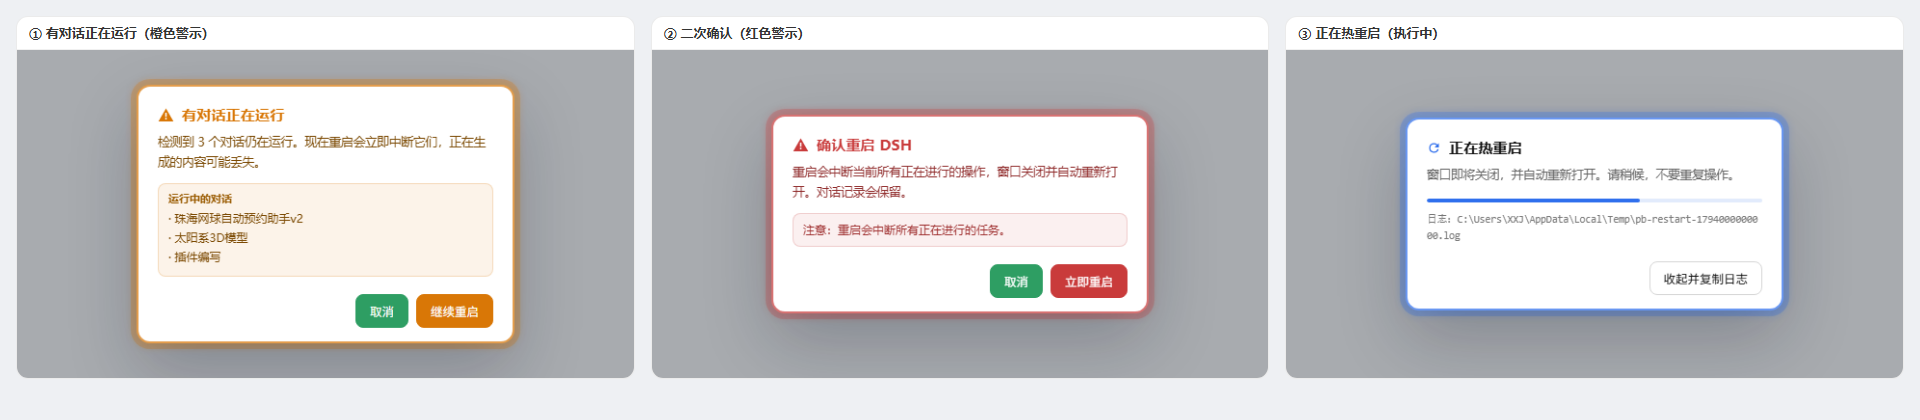
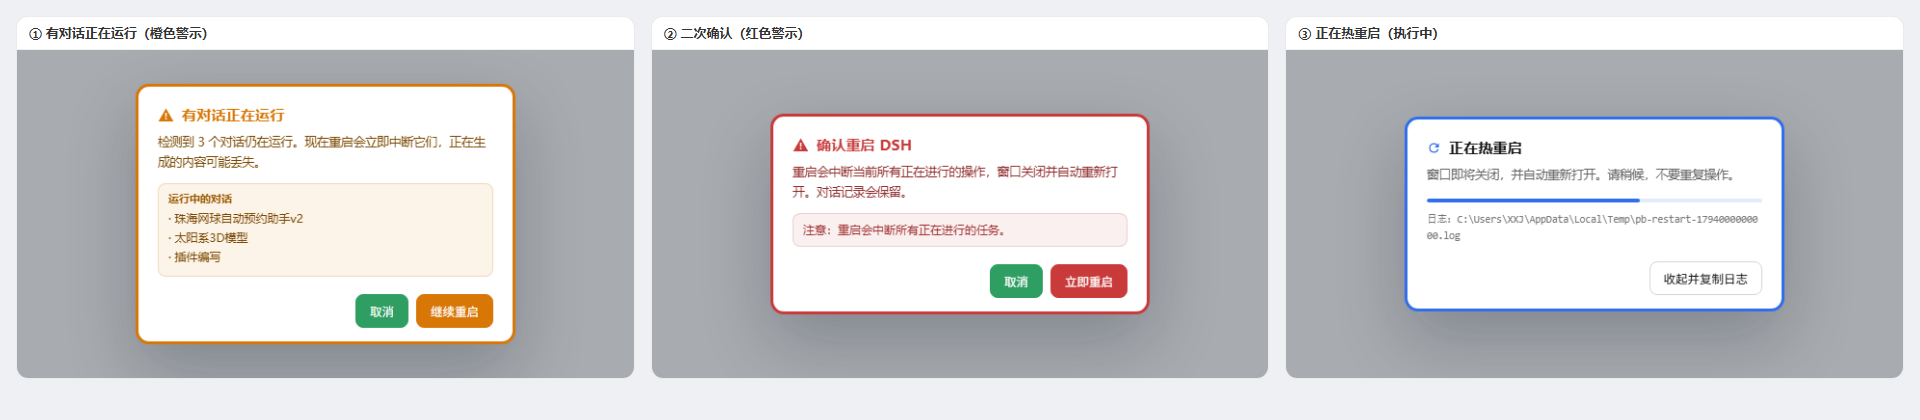
style(restart): 3.5px solid border with visible thickness/color breathing; refresh screenshots

diff --git a/client.js b/client.js
@@ -2233,7 +2233,7 @@ function closeIcon(size = 14) {
         '@keyframes pb-toast-pop{0%{opacity:0;transform:translate(-50%,-50%) scale(.94)}8%{opacity:.75;transform:translate(-50%,-50%) scale(1)}88%{opacity:.75;transform:translate(-50%,-50%) scale(1)}100%{opacity:0;transform:translate(-50%,-50%) scale(1)}}',
         '.pb-toast{animation:pb-toast-pop 2.2s ease forwards}',
         '.pb-rst-backdrop{position:fixed;inset:0;z-index:2147483000;display:flex;align-items:center;justify-content:center;background:rgba(23,28,38,.34);backdrop-filter:blur(3px);animation:pb-rst-fade .16s ease}',
-        '.pb-rst-card{width:348px;max-width:calc(100vw - 32px);background:var(--dsw-alias-bg-layer-1,#fff);border:2.5px solid var(--pb-tone,#2f6fed);border-radius:14px;box-shadow:0 28px 70px rgba(15,23,42,.24);padding:20px 20px 14px;color:var(--dsw-alias-label-primary,#111);font-family:inherit;animation:pb-rst-in .18s cubic-bezier(.2,.8,.2,1)}',
+        '.pb-rst-card{width:348px;max-width:calc(100vw - 32px);background:var(--dsw-alias-bg-layer-1,#fff);border:3.5px solid var(--pb-tone,#2f6fed);border-radius:14px;box-shadow:0 28px 70px rgba(15,23,42,.24);padding:20px 20px 14px;color:var(--dsw-alias-label-primary,#111);font-family:inherit;animation:pb-rst-in .18s cubic-bezier(.2,.8,.2,1)}',
         '.pb-rst-title{display:flex;align-items:center;gap:8px;font-size:15px;font-weight:650;letter-spacing:.2px}',
         '.pb-rst-body{margin-top:8px;font-size:12.5px;line-height:1.7;color:var(--dsw-alias-label-secondary,#666)}',
         '.pb-rst-actions{display:flex;justify-content:flex-end;gap:8px;margin-top:18px}',
@@ -2246,7 +2246,7 @@ function closeIcon(size = 14) {
         '.pb-rst-toast{position:fixed;left:50%;bottom:32px;transform:translateX(-50%);z-index:2147483001;background:rgba(20,22,28,.92);color:#fff;font-size:12px;line-height:1;padding:9px 16px;border-radius:999px;box-shadow:0 10px 26px rgba(0,0,0,.24);animation:pb-rst-toast-in .18s ease}',
         '@keyframes pb-rst-toast-in{from{opacity:0;transform:translateX(-50%) translateY(4px)}to{opacity:1;transform:translateX(-50%) translateY(0)}}',
         '.pb-rst-breathe{animation:pb-rst-in .18s cubic-bezier(.2,.8,.2,1),pb-rst-breathe 2.6s ease-in-out infinite;will-change:box-shadow}',
-        '@keyframes pb-rst-breathe{0%,100%{border-color:var(--pb-tone,#2f6fed);box-shadow:0 28px 70px rgba(15,23,42,.24),0 0 0 0 color-mix(in srgb,var(--pb-tone,#2f6fed) 0%,transparent),0 0 0 0 color-mix(in srgb,var(--pb-tone,#2f6fed) 0%,transparent)}50%{border-color:color-mix(in srgb,var(--pb-tone,#2f6fed) 72%,#fff);box-shadow:0 28px 70px rgba(15,23,42,.24),0 0 0 6px color-mix(in srgb,var(--pb-tone,#2f6fed) 26%,transparent),0 0 6px 6px color-mix(in srgb,var(--pb-tone,#2f6fed) 18%,transparent)}}',
+        '@keyframes pb-rst-breathe{0%,100%{border-width:3.5px;border-color:var(--pb-tone,#2f6fed);box-shadow:0 28px 70px rgba(15,23,42,.24),0 0 0 0 color-mix(in srgb,var(--pb-tone,#2f6fed) 0%,transparent),0 0 0 0 color-mix(in srgb,var(--pb-tone,#2f6fed) 0%,transparent)}50%{border-width:4.5px;border-color:color-mix(in srgb,var(--pb-tone,#2f6fed) 78%,#fff);box-shadow:0 28px 70px rgba(15,23,42,.24),0 0 0 6px color-mix(in srgb,var(--pb-tone,#2f6fed) 30%,transparent),0 0 6px 6px color-mix(in srgb,var(--pb-tone,#2f6fed) 20%,transparent)}}',
         '.pb-rst-btn.cancel{background:#2e9e63;border-color:#2e9e63;color:#fff}',
         '.pb-rst-btn.cancel:hover{background:#278a56;border-color:#278a56}',
         '.pb-rst-btn.warn{background:#d97706;border-color:#d97706;color:#fff}',
